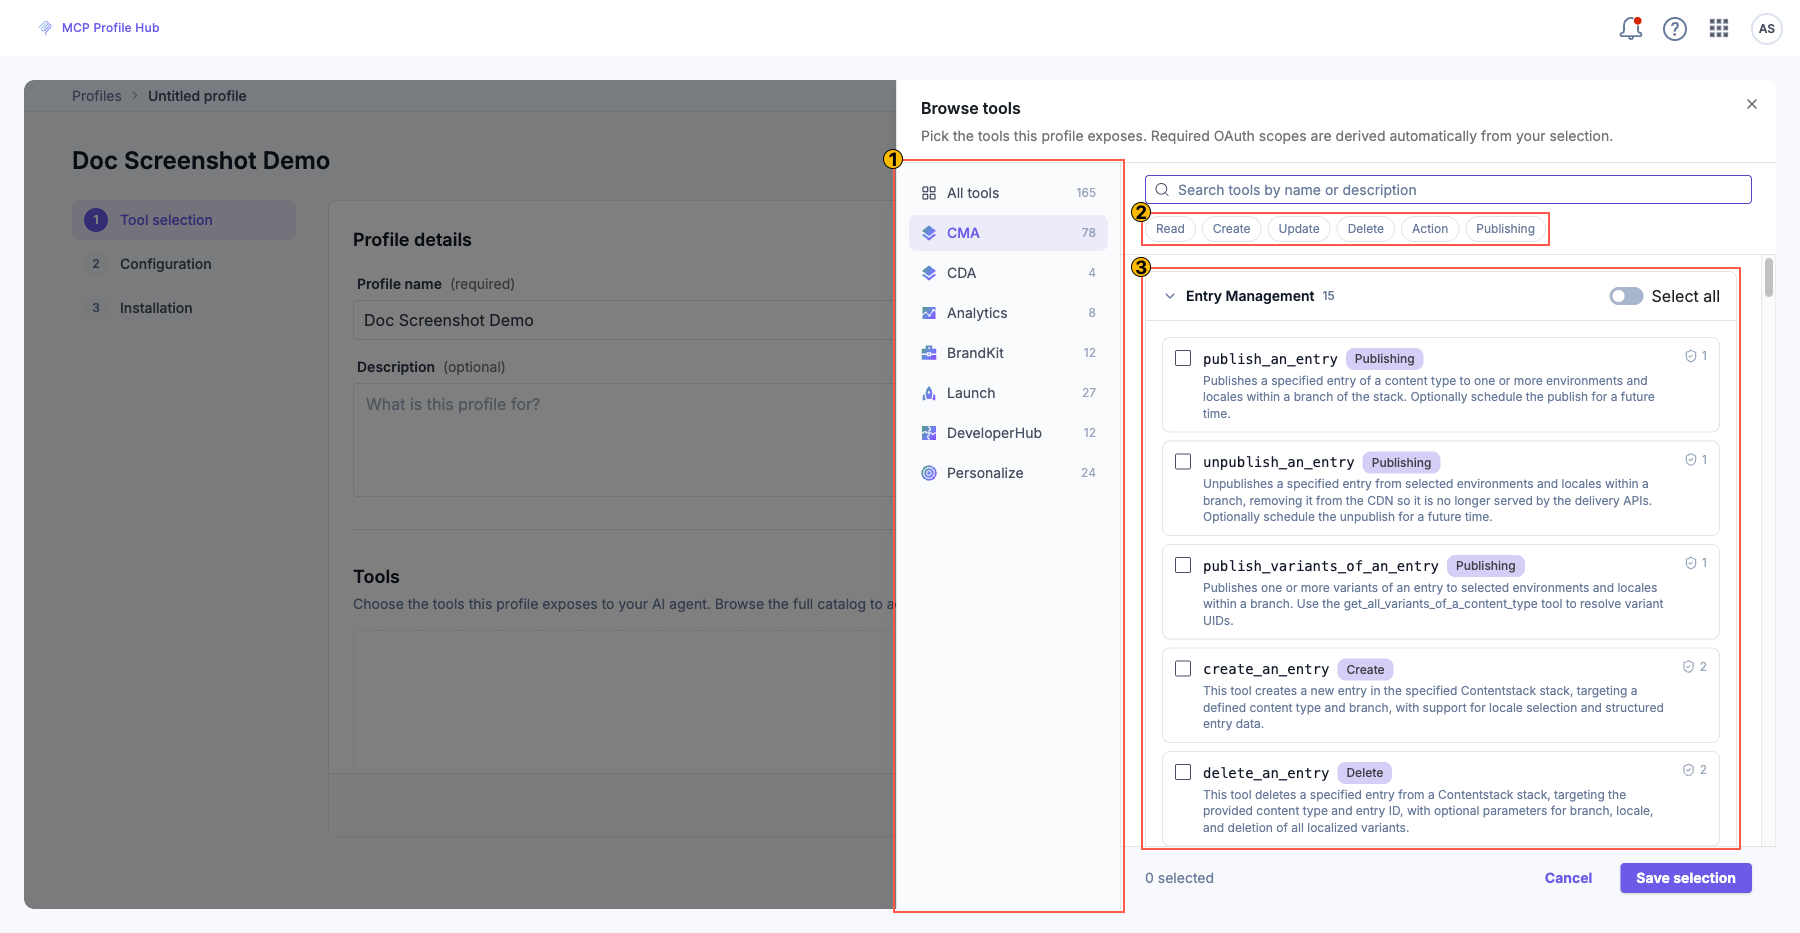
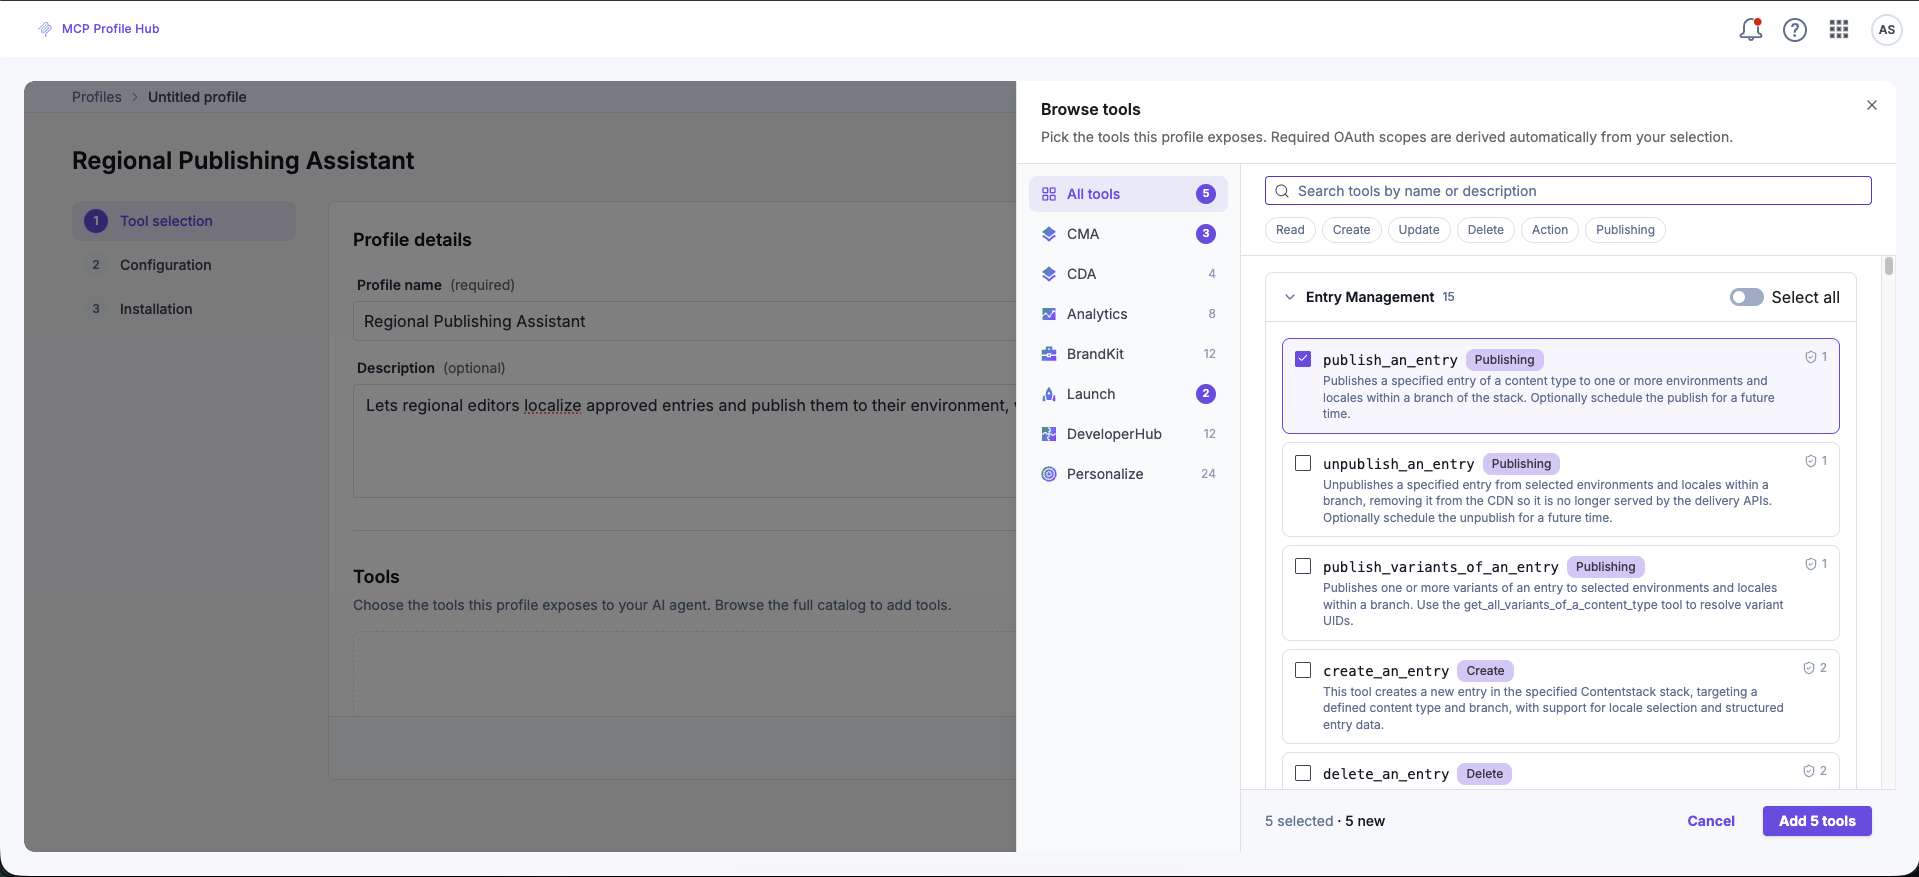
Restructure MCP Profile Hub doc into hybrid Feature/Setup Guide template
Rewrites mcp-hub-doc.md against doc-standards/common-rules.md: adds
What You'll Learn, Quick Decision Guide, and Next Steps sections, moves
conceptual material into a Concepts and reference section after the
task flow, fixes acronym expansion, tone, and formatting issues found
during audit, and adds the Browse tools panel and Executions view
screenshots.

diff --git a/docs/official-docs/mcp-hub-doc.md b/docs/official-docs/mcp-hub-doc.md
@@ -8,11 +8,11 @@ seo_description: "Create governed MCP profiles that expose a curated set of Cont
 
 # MCP Profile Hub
 
-MCP Profile Hub is a Contentstack Marketplace app that creates **profiles**: each profile exposes a fixed, named subset of Contentstack tools over the Model Context Protocol (MCP), and any MCP-compatible AI client can connect to it. Without that scoping, an agent given all the Contentstack tools at once picks the wrong tool more often, fills its context window with unused tool definitions, and fails tasks that smaller models could otherwise complete.
+MCP Profile Hub is a Contentstack Marketplace app that creates **profiles**. Each profile exposes a fixed subset of Contentstack tools over the Model Context Protocol (MCP), and any MCP-compatible AI client can connect to it. This helps agents select the correct tool, prevents unused tool definitions from consuming the context window, and reduces task failures in smaller models.
 
 ## What you'll learn
 
-- Decide whether to install a ready-made system profile or build a custom one
+- Decide whether to install a system profile or build a custom one
 - Create a profile using the Tool selection, Configuration, and Installation wizard
 - Connect a profile to Claude, Claude Code, Cursor, Codex, ChatGPT, or another MCP client
 - Verify a connected client can call the profile's tools
@@ -23,10 +23,10 @@ MCP Profile Hub is a Contentstack Marketplace app that creates **profiles**: eac
 ## Quick decision guide
 
 
-| Approach               | Key configuration value                                            | Reason                                                                                               |
-| ---------------------- | ------------------------------------------------------------------ | ---------------------------------------------------------------------------------------------------- |
-| Use a system profile   | Pick a profile from the System profiles list, then choose a stack  | Fastest path. No tool selection needed, works for common jobs like asset lookup or content discovery |
-| Build a custom profile | Run the 3-step wizard: Tool selection, Configuration, Installation | Needed when no system profile matches the job, or the job requires a specific, narrower toolset      |
+| Approach                                                   | Key configuration value                                            | Reason                                                                                               |
+| ---------------------------------------------------------- | ------------------------------------------------------------------ | ---------------------------------------------------------------------------------------------------- |
+| [Use a system profile](#option-a-use-a-system-profile)     | Pick a profile from the System profiles list, then choose a stack  | Fastest path. No tool selection needed, works for common jobs like asset lookup or content discovery |
+| [Build a custom profile](#option-b-build-a-custom-profile) | Run the 3-step wizard: Tool selection, Configuration, Installation | Needed when no system profile matches the job, or the job requires a specific, narrower toolset      |
 
 
 
@@ -47,13 +47,13 @@ Optional:
 
 ## Create a profile
 
-You build a profile in the MCP Profile Hub app using a three-step wizard: Tool selection, Configuration, Installation. You can also start from a ready-made system profile and only configure and install it.
+You create a profile in the MCP Profile Hub app through a three-step wizard: Tool selection, Configuration, Installation. Starting from a system profile skips Tool selection, so you only complete Configuration and Installation.
 
 ### Option A: use a system profile
 
-1. On the **Profiles** screen, open a profile from the **System profiles** section, for example *Asset Librarian* or *Content Explorer*.
-2. Complete **Configuration**: pick the stack the profile operates on.
-3. Continue to **Installation**.
+1. On the **Profiles** screen, open a profile from the **System profiles** section (e.g., Asset Librarian).
+2. In **Configuration**, select the stack the profile operates on.
+3. In the **Installation** section, use any of the AI client to use the tools
 
 No tool selection is needed for a system profile.
 
@@ -62,20 +62,22 @@ No tool selection is needed for a system profile.
 **Step 1: Select tools**
 
 1. Click **New Profile**.
-2. Give the profile a **name** (required) and an optional **description** of the job it supports.
+2. Give the profile a **name** and an optional **description**.
 3. Under **Tools**, click **Browse catalog**.
-4. Pick a catalog on the left, for example CMA (Content Management API), CDA (Content Delivery API), or Launch, then search or filter within it. Tools are grouped by area and tagged by operation: Read, Create, Update, Delete, Action, or Publishing.
+4. Pick a catalog on the left, for example CMA (Content Management API), CDA (Content Delivery API), or Launch, then search or filter within it.
 5. Select the tools this profile should expose and click **Save selection**.
 6. Click **Save & Continue**.
 
-![Browse tools panel showing catalogs on the left, such as CMA, CDA, and Launch, tools grouped by area, such as Entry Management, and operation tags like Read, Delete, or Publishing.](assets/browse-tools-panel.png)
+![Browse tools panel showing catalogs on the left, such as All tools, CMA, CDA, Analytics, BrandKit, Launch, DeveloperHub, and Personalize, tools grouped by area, such as Entry Management, and each tool tagged by operation, such as Publishing or Create.](assets/browse-tools-panel.png)
 
-A wider tool selection pulls in more OAuth (Open Authorization) scopes for the client to request, since required scopes are derived automatically from your selection. Keep the selection tight. Prefer a second focused profile over piling unrelated tools into one.
+**Tip:** Tools are grouped by area and tagged by operation: Read, Create, Update, Delete, Action, or Publishing.
+
+A wider tool selection pulls in more OAuth  scopes for the client to request, since required scopes are derived automatically from your selection. Keep the selection tight. Prefer a second focused profile over adding unrelated tools to one.
 
 **Step 2: Configure**
 
 1. Under **Configuration**, connect the Contentstack project the profile operates on.
-2. Select the **Stack** (required).
+2. Select the **Stack**.
 3. Click **Save & Continue**.
 
 **Step 3: Install**
@@ -88,13 +90,11 @@ https://mcp-hub.contentstack.com/api/mcp?profile_id=<profile_id>
 
 The `profile_id` is a catalog identifier, not a secret. Identity is established entirely through OAuth, so the URL is safe to share.
 
-The **Install** screen shows a ready-to-paste snippet for each supported client, plus the raw connector URL.
+The **Install** screen shows a ready-to-paste snippet for each supported client, and the raw connector URL.
 
-![Installation step showing the client tabs, a copy-ready config snippet, the raw connector URL, and the Add to Claude button.](assets/installation-step.png)
+Installation step shows different client tabs along with the raw connector URL.  Select your client and follow the matching section under [Connect your AI client](#connect-your-ai-client).
 
-Pick your client and follow the matching section under [Connect your AI client](#connect-your-ai-client).
-
-Verification: the profile's Installation screen shows a stable endpoint URL. That URL is what you paste into an MCP client in the next section.
+**Verification:** the profile's Installation screen shows a stable endpoint URL. Paste that URL into an MCP client in the next section.
 
 ### Edit a profile
 
@@ -104,29 +104,27 @@ Reopen a profile any time to change its tools or configuration. The `profile_id`
 
 Every profile is a remote MCP server you connect to over Streamable HTTP. Auth is handled by OAuth in the browser on first connect. No keys, management tokens, or delivery tokens go into client configuration.
 
-The steps below use the `asset_librarian` profile as an example. Swap in your own `profile_id`, or copy the ready-made snippet from the profile's Installation step.
+The steps below use the `asset_librarian` profile as an example. Replace it with your `profile_id`, or copy the config snippet from the profile's Installation step.
 
 ```
 https://mcp-hub.contentstack.com/api/mcp?profile_id=asset_librarian
 ```
 
-
-
 ### Claude (Desktop and web)
 
-1. From the profile's Installation step, open the **Claude Desktop** tab and click **Add to Claude**. This opens claude.ai's *Add custom connector* dialog, pre-filled.
+1. From the profile's Installation step, open the **Claude Desktop** tab and click **Add to Claude**. This opens and prefilled claude.ai's custom connector popup.
 2. Review the details and click **Add**.
 
-TODO(screenshot): Add custom connector dialog. It should show the pre-filled connector name and URL, and the Add button.
+To add it manually, follow the steps below:
 
-To add it by hand instead:
-
-1. Open **Settings → Connectors → Add custom connector** on claude.ai.
+1. Open **Settings > Connectors > Add custom connector** on claude.ai.
 2. Set a name (for example, `Asset Librarian`).
 3. Paste the connector URL and click **Add**.
 4. Complete the browser OAuth sign-in when prompted.
 
-Alternatively, configure the Claude Desktop app through `claude_desktop_config.json` using the `mcp-remote` bridge, which proxies the remote server over stdio and handles the OAuth flow. This requires Node.js.
+Alternatively, configure the Claude Desktop app through `claude_desktop_config.json` using the `mcp-remote` bridge, which proxies the remote server over stdio and handles the OAuth flow. This requires Node.js. 
+
+Add this block to `claude_desktop_config.json`:
 
 ```json
 {
@@ -143,10 +141,9 @@ Alternatively, configure the Claude Desktop app through `claude_desktop_config.j
 }
 ```
 
-1. Claude Desktop only reads `claude_desktop_config.json` on launch, so restart it to pick up the new server entry.
-2. On first use, a browser opens for Contentstack OAuth. Approve the scopes.
+Claude Desktop only reads `claude_desktop_config.json` on launch, so restart it to pick up the new server entry. On first use, a browser opens for Contentstack OAuth. Approve the scopes.
 
-Verification: the profile's tools appear in Claude's tool list once OAuth completes.
+**Verification:** The profile's tools appear in Claude's tool list once OAuth completes.
 
 ### Claude Code (CLI)
 
@@ -158,7 +155,7 @@ Claude Code supports remote HTTP MCP servers natively.
 claude mcp add --transport http asset-librarian "https://mcp-hub.contentstack.com/api/mcp?profile_id=asset_librarian"
 ```
 
-An unquoted URL lets the shell interpret `?` and `&` as shell syntax instead of part of the URL, breaking the command. Keep the URL quoted. To make the server available in every project, add `--scope user`.
+Warning:An unquoted URL lets the shell interpret `?` and `&` as shell syntax instead of part of the URL, breaking the command. Keep the URL quoted. To make the server available in every project, add `--scope user`.
 
 1. Run `/mcp` inside Claude Code and pick the server.
 2. Complete the browser sign-in.
@@ -180,10 +177,10 @@ Verification: `/mcp` lists the server as connected, with the profile's tools ava
 }
 ```
 
-1. Open **Cursor Settings → MCP** (or reload).
+1. Open **Cursor Settings > MCP** (or reload).
 2. On first tool use, approve the Contentstack OAuth prompt in the browser that opens.
 
-Verification: the server shows as connected under **Cursor Settings → MCP**, with the profile's tools listed.
+**Verification**: The server shows as connected under **Cursor Settings > MCP**, with the profile's tools listed.
 
 ### Codex and ChatGPT
 
@@ -204,7 +201,7 @@ Add one `[mcp_servers.<name>]` block per profile.
 
 ChatGPT connects to remote MCP servers as custom connectors. The exact menu names depend on your plan, so consult OpenAI's current connector documentation if these steps do not match what you see.
 
-1. In ChatGPT, open **Settings → Connectors**.
+1. In ChatGPT, open **Settings > Connectors**.
 2. Choose **Add custom connector**, give it a name, and paste the connector URL.
 3. Save, then complete the Contentstack OAuth sign-in and approve the scopes.
 4. Enable the connector in a conversation.
@@ -221,11 +218,9 @@ Any MCP-compatible client can connect. Point it at the profile URL as a remote H
 
 For clients that only support stdio, bridge with [mcp-remote](https://www.npmjs.com/package/mcp-remote) (requires Node.js), using the same configuration shape shown for Claude Desktop above.
 
-Verification: most clients list the connected server and its tools once auth completes. Ask the agent to do something the profile supports. If tools do not appear or the call fails, see [Troubleshooting](#troubleshooting).
+**Verification**: most clients list the connected server and its tools once auth completes. Ask the agent to do something the profile supports. If tools do not appear or the call fails, see [Troubleshooting](#troubleshooting).
 
-## Theory sections
-
-
+## Concepts and reference
 
 ### How MCP Profile Hub works
 
@@ -248,15 +243,15 @@ A profile bundles:
 - **Configuration**: the Contentstack projects it operates on, such as the default stack
 - **Scope**: private to you, or shared across your organization
 
-Tools are not raw API endpoints. When a client connects, the runtime contextualizes each tool against your actual Contentstack setup, so the tool reflects what you can actually do rather than a generic API surface.
+Tools are not raw API endpoints. When a client connects, the runtime contextualizes each tool against your Contentstack setup, so the tool reflects what you can do rather than a generic API surface.
 
 ### System profiles and custom profiles
 
-**System profiles** are curated, ready-to-use profiles available to every organization, such as *Asset Librarian*, *Content Explorer*, *Content Modeler*, *Campaign Go-Live*, and *Broken Reference Checker*. Most are deliberately narrow: read-only discovery or a single focused operation. Product-level profiles (for example, a full-CMS profile) are the exception. They expose an entire product catalog, including destructive tools, and should only be used when full product control is intended.
+**System profiles** are predefined profiles available to every organization, such as Asset Librarian, Content Explorer, Content Modeler, Campaign Go-Live, and Broken Reference Checker. Most are deliberately narrow: read-only discovery or a single focused operation. Product-level profiles (for example, a full-CMS profile) are the exception. They expose an entire product catalog, including destructive tools, and should only be used when full product control is intended.
 
 **Custom profiles** are created by your organization. You build them from the tool catalog to match your own jobs, for example a regional publishing assistant, a localization workflow profile, or a content audit profile.
 
-![Profiles screen showing System profiles section with ready-made profiles such as Asset Librarian and Content Explorer, plus the organization's custom profiles and the New Profile button.](assets/profiles-screen.png)
+Profiles screen showing System profiles section with predefined profiles such as Asset Librarian and Content Explorer, plus the organization's custom profiles and the New Profile button.
 
 A profile works best when it supports one well-defined job. When in doubt:
 
@@ -306,7 +301,7 @@ Both connect AI agents to Contentstack and cover the same kinds of work. They di
 | Tool selection | Tool groups (`cma`, `launch`, and so on). Each group loads its full toolset, up to 77 tools for CMA alone | Curated per profile. You expose exactly the tools a job needs, nothing more        |
 
 
-In short: the MCP Server gives a developer the full toolset on their own machine, MCP Profile Hub gives anyone a scoped toolset from any client, shareable across a team.
+The MCP Server gives a developer the full toolset on their own machine. MCP Profile Hub gives any user a scoped toolset from any client, shared across a team.
 
 ### Authentication and permissions
 
@@ -346,7 +341,7 @@ All profile activity is logged. A log entry captures the user, profile, client, 
 
 The MCP Profile Hub app includes an **Executions** view: a searchable, filterable history of tool calls across your profiles. Each entry shows the status (running, completed, or failed), the profile and tool involved, timing, any error message, and expandable request metadata.
 
-TODO(screenshot): Executions view. It should show a filterable list of tool calls with status badges, profile and tool names, timestamps, and one expanded row with request metadata or an error message.
+![Executions view with a search bar and All statuses and All profiles filters, listing tool calls with a status badge (Completed, Running, or Failed), profile name, tool name, and timestamp, including a failed create_an_entry_variant call with its HTTP 412 error message shown inline.](assets/executions-view.png)
 
 Use it to:
 
